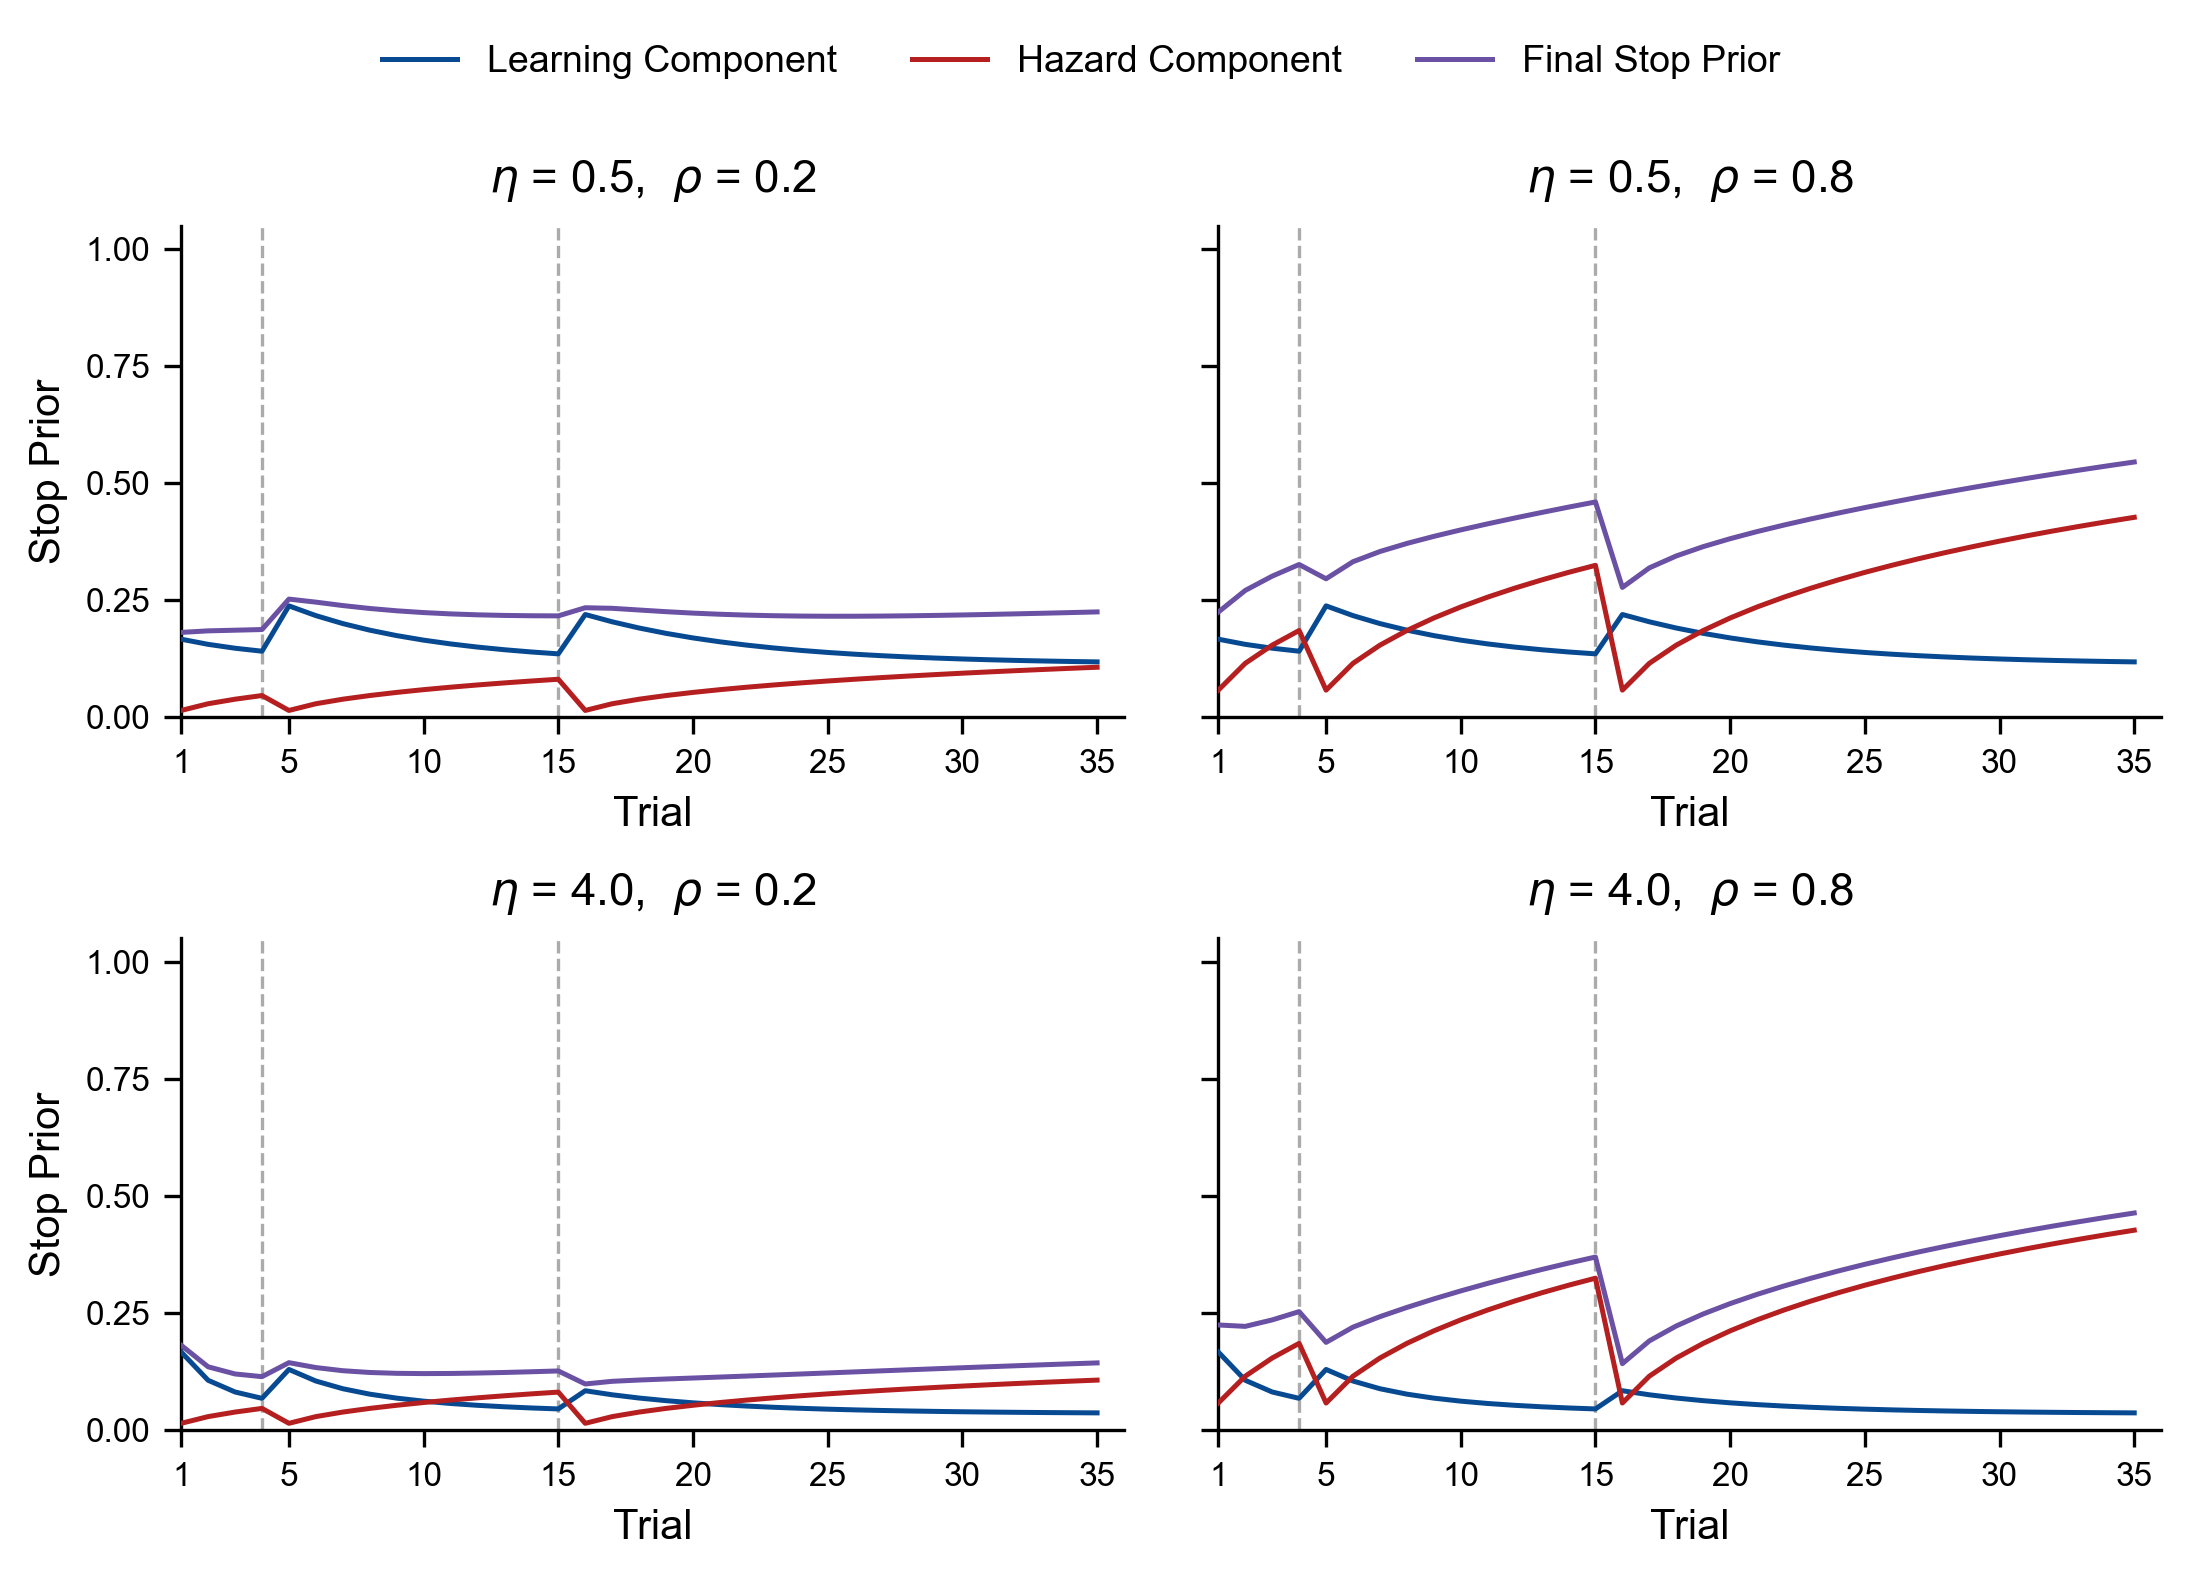
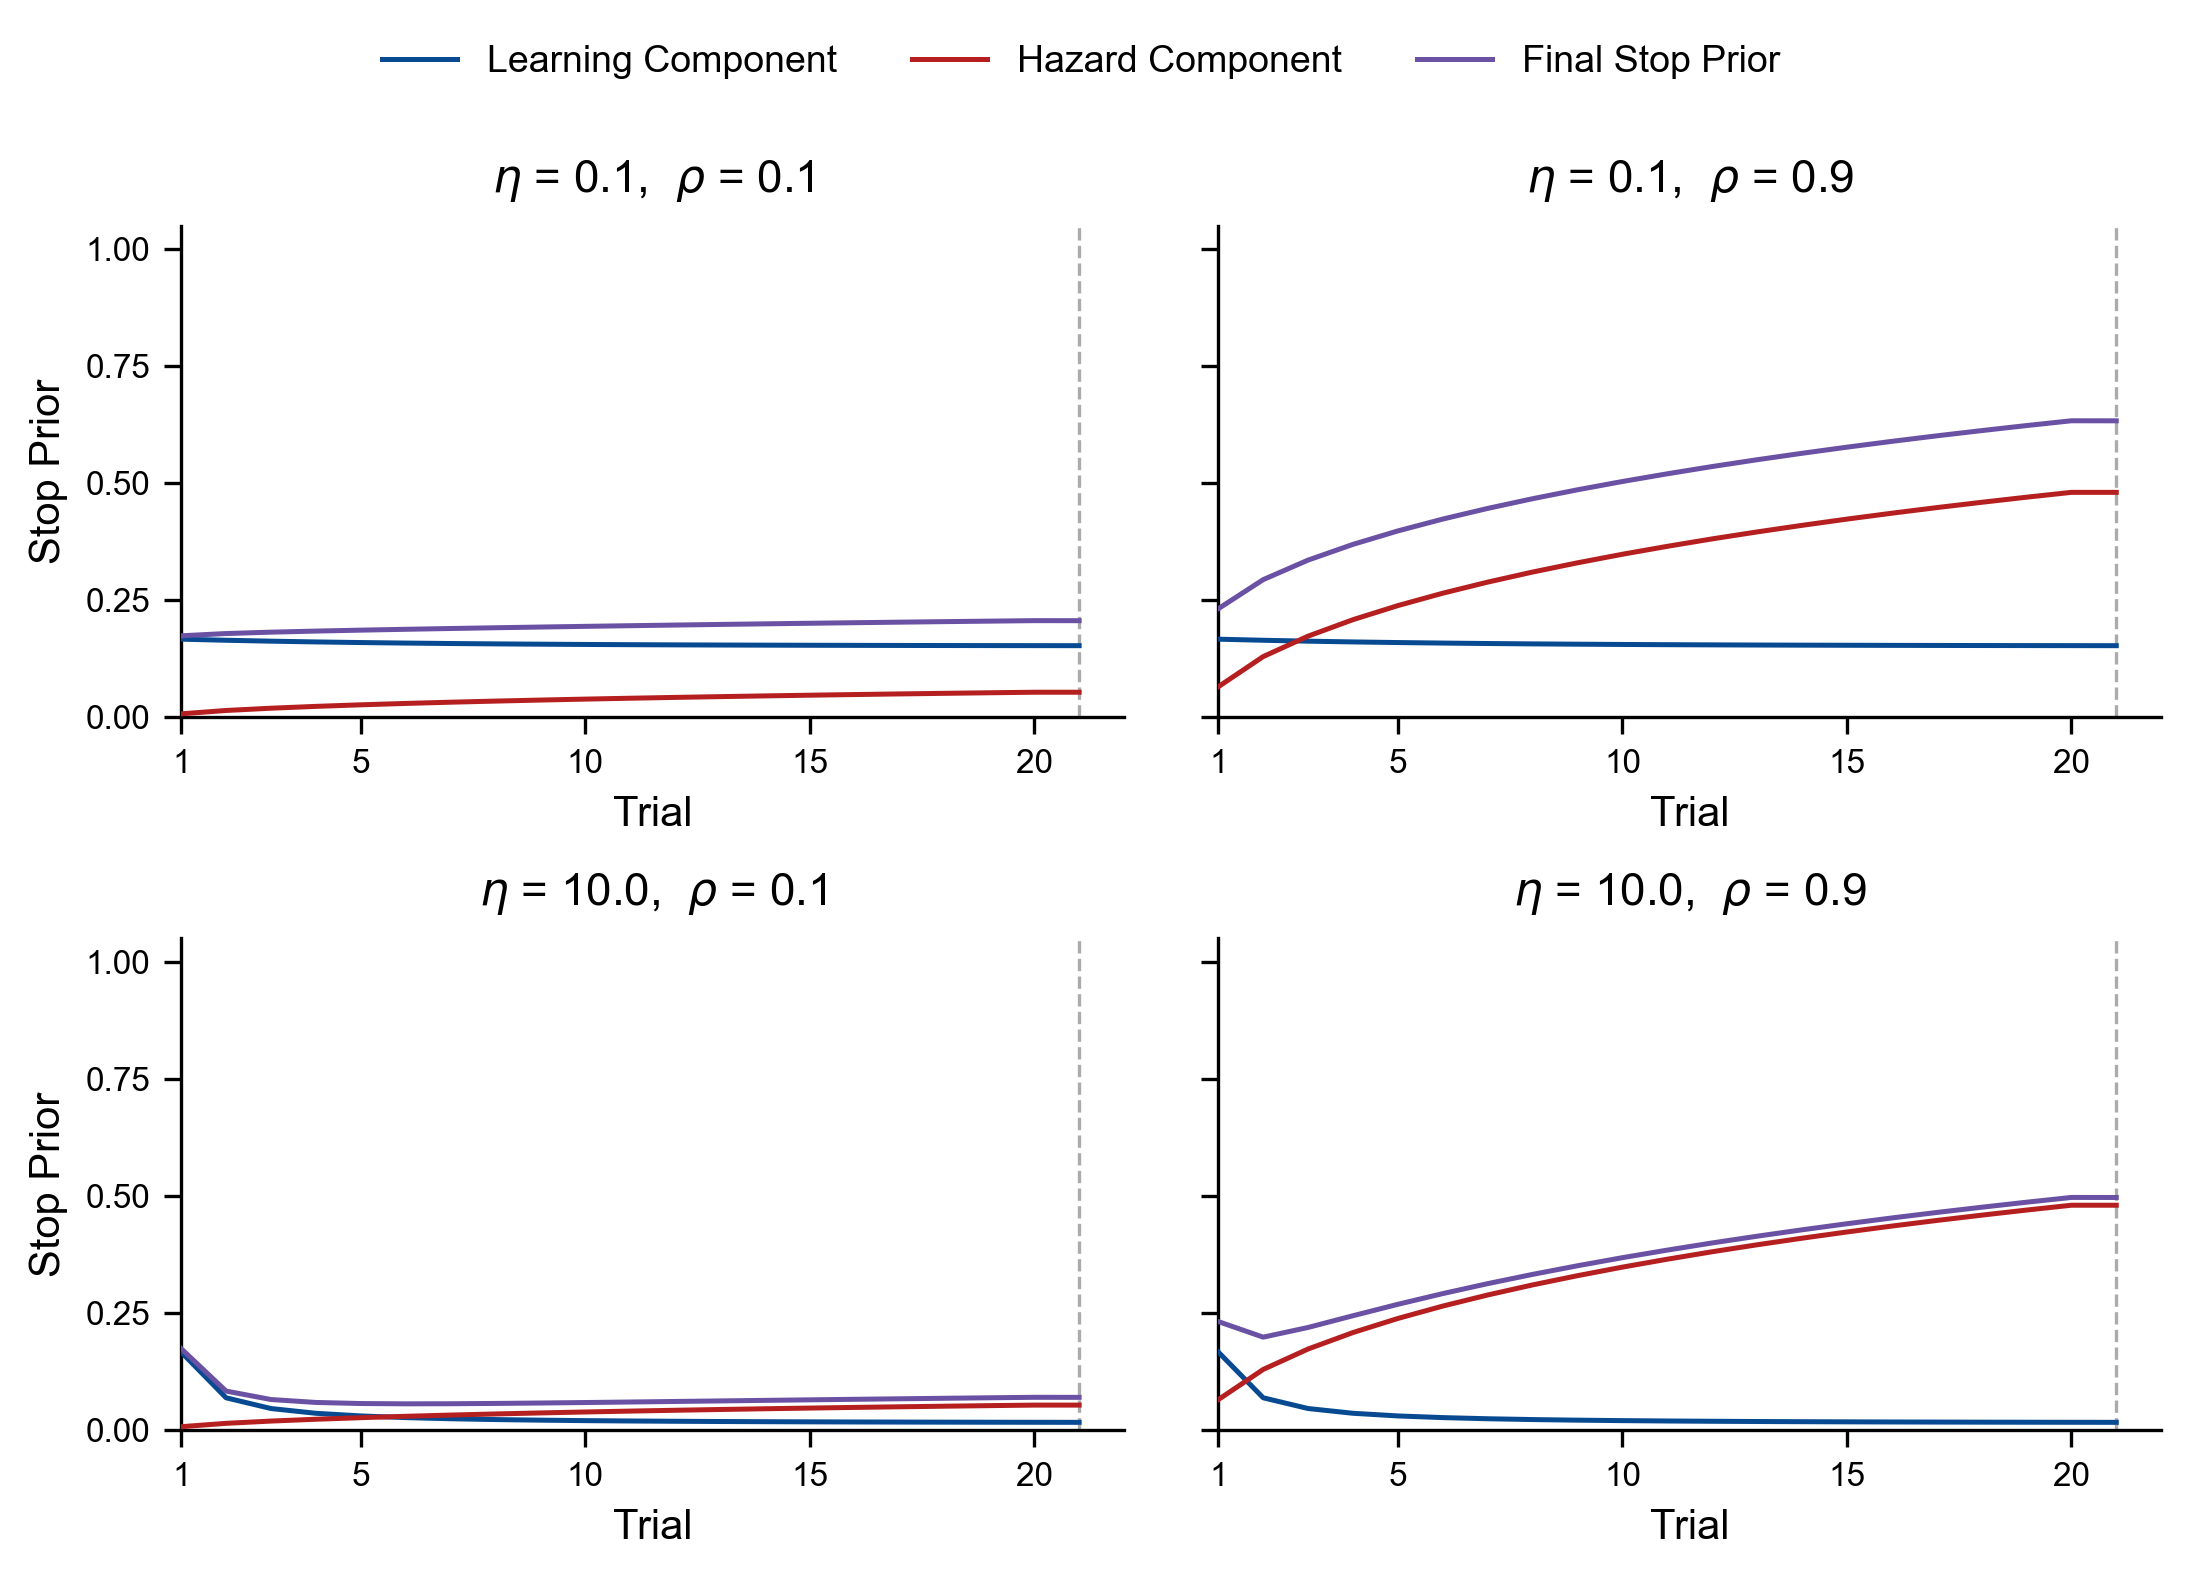
up

diff --git a/utils/plot_dual.py b/utils/plot_dual.py
@@ -36,12 +36,12 @@ PANEL_LABEL_SIZE = 12
 def main():
     print(">>> 1. Initializing Sequence and Parameters...")
     # Sequence: 3 Go, 1 Stop, 10 Go, 1 Stop, 20 Go, 1 Stop (36 trials total)
-    seq = [0]*3 + [1] + [0]*10 + [1] + [0]*20
+    seq = [0]*20 + [1]
     trials = np.arange(1, len(seq) + 1)
     
     # Define our 2x2 factorial parameter grid
-    eta_vals = [0.5, 4.0]  
-    rho_vals = [0.2, 0.8]   
+    eta_vals = [0.1, 10.0]  
+    rho_vals = [0.1, 0.9]   
     
     print(">>> 2. Generating the 2x2 Grid Plot...")
     fig, axes = plt.subplots(2, 2, figsize=(7.5, 5.5))
